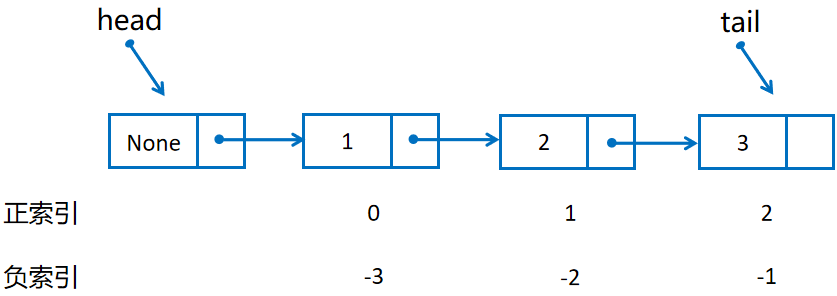
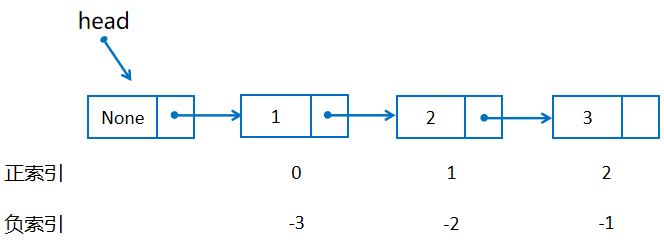
docs: modify linkedlist docs

diff --git a/data_structure/docs/linked_lists.md b/data_structure/docs/linked_lists.md
@@ -8,11 +8,280 @@
 
 单链表，也称单向链表 (Single Linked List)，由许多节点连接而成。单个节点由两部分 (value 和 next) 组成，value 用于存储数据，next 用于存储下一个节点的引用 (也可以理解为一个指针，指向下一个节点)。
 
-通常我们会在链表的开头添加一个哨兵节点 (sentinel) 作为伪头 (pseudo-head)，可以简化插入、删除等操作。哨兵节点不计入链表长度，也无法用索引访问。
+通常我们会在链表的开头添加一个哨兵节点 (sentinel) 作为伪头 (pseudo-head)，可以简化插入等操作。哨兵节点不计入链表长度，也无法用索引访问。
 
-我们还有两个字段 head 和 tail，用于存储头节点和尾节点的引用 (也可以理解成头指针和尾指针，指向头节点和尾节点)。
+我们还有一个字段 head，用于存储伪头的引用 (也可以理解成头指针，指向伪头节点)。
 
 
+
+#### 链表支持的操作
+
+##### 1. 初始化
+
+我们可以使用以下的代码创建一个空链表：
+
+```python
+linked_list = LinkedList()
+```
+
+也可以传入一个可迭代对象，将其转换为链表：
+
+```python
+linked_list1 = LinkedList([1, 2, 3])
+linked_list2 = LinkedList((1, 2, 3))
+linked_list3 = LinkedList(range())
+```
+
+
+
+##### 2. 显示链表信息
+
+当我们打印链表对象时，
+
+```python
+print(linked_list)
+print(linked_list1)
+print(linked_list2)
+print(linked_list3)
+```
+
+会显示出对应的信息：
+
+```python
+【head】
+【head】->【1】->【2】->【3】
+【head】->【1】->【2】->【3】
+【head】->【0】->【1】->【2】->【3】->【4】
+```
+
+
+
+##### 3. 访问链表元素
+
+我们可以使用索引的方式访问指定下标的元素，
+
+```python
+print(linked_list1[0])
+```
+
+会得到该链表的第一个元素：
+
+```python
+1
+```
+
+
+
+##### 4. 修改对应元素
+
+我们可以使用索引指定一个元素后，修改其值：
+
+```python
+linked_list1[0] = 'hello'
+print(linked_list1)
+```
+
+输出结果如下所示：
+
+```python
+【head】->【hello】->【2】->【3】
+```
+
+
+
+##### 5. 获取链表长度
+
+我们可以使用 Pyhton 内置方法 `len` 获得链表的长度：
+
+```python
+length = len(linked_List1)
+print(length)
+```
+
+输出结果如下所示：
+
+```python
+3
+```
+
+
+
+##### 6. 迭代
+
+我们可以使用 `for` 语句遍历链表，如下所示：
+
+```python
+for node in linked_list1:
+    print(node.value)
+```
+
+输出结果如下所示：
+
+```python
+hello
+2
+3
+```
+
+
+
+#### 链表方法
+
+##### 1. append 
+
+**作用**
+
+在链表尾部插入一个节点。
+
+**语法**
+
+```python
+linked_list.append(value)
+```
+
+**参数**
+
+- value -- 要插入节点的值
+
+**返回值**
+
+无
+
+**实例**
+
+```python
+linked_list = LinkedList(range(3))
+print(linked_list)
+linked_list.append(3)
+print(linked_list)
+```
+
+**结果**
+
+```python
+【head】->【0】->【1】->【2】
+【head】->【0】->【1】->【2】->【3】
+```
+
+
+
+##### 2. insert
+
+**作用**
+
+在链表指定位置 pos 处的节点前插入一个节点。
+
+**语法**
+
+```python
+linked_list.insert(pos, value)
+```
+
+**参数**
+
+- pos -- 链表中节点的位置
+- value -- 要插入节点的值
+
+**返回值**
+
+无
+
+**实例**
+
+```python
+linked_list = LinkedList(range(3))
+print(linked_list)
+linked_list.insert(1, 'hello')
+print(linked_list)
+```
+
+**结果**
+
+```python
+【head】->【0】->【1】->【2】
+【head】->【0】->【hello】->【1】->【2】
+```
+
+
+
+##### 3. remove
+
+**作用**
+
+移除与值匹配的第一个节点。
+
+**语法**
+
+```python
+linked_list.remove(value)
+```
+
+**参数**
+
+- value -- 要移除节点的值
+
+**返回值**
+
+无
+
+**实例**
+
+```python
+linked_list = LinkedList(range(3))
+print(linked_list)
+linked_list.remove(2)
+print(linked_list)
+```
+
+**结果**
+
+```python
+【head】->【0】->【1】->【2】
+【head】->【0】->【1】
+```
+
+
+
+##### 4. pop
+
+**作用**
+
+移除指定位置的节点并返回，默认移除最后一个节点。
+
+**语法**
+
+```python
+linked_list.pop(pos=-1)
+```
+
+**参数**
+
+- pos -- 链表中节点的位置
+
+**返回值**
+
+返回移除的节点。
+
+**实例**
+
+```python
+linked_list = LinkedList(range(5))
+print(linked_list)
+print(linked_list.pop().value)
+print(linked_list)
+print(linked_list.pop(1).value)
+print(linked_list)
+```
+
+**结果**
+
+```python
+【head】->【0】->【1】->【2】->【3】->【4】
+4
+【head】->【0】->【1】->【2】->【3】
+1
+【head】->【0】->【2】->【3】
+```
 
 
 
@@ -20,56 +289,13 @@
 
  双链表，也称双向链表 (Double Linked List)，由许多节点组成，每个节点包括存储数据部分，还包括前缀指针 (pre) 指向前一个节点，后缀指针 (next) 指向后一个节点。
 
+
+
 ![](.\img\3.png)
 
-### 1. 链表的创建
+![](.\img\4.png)
 
-创建空链表
+通常我们会在链表的开头添加两个哨兵节点 (sentinel) 作为伪头 (pseudo-head) 和伪尾 (pseudo-tail)，可以简化插入、删除等操作。哨兵节点不计入链表长度，也无法用索引访问。
 
-```python
-linked_list = LinkedList()
-```
-
-初始化一个链表
-
-```python
-linked_list = LinkedList([1, 2, 3])
-# 或者
-linked_list = LinkedList('123')
-```
-
-> 注意传入的参数需要是一个序列类型
-
-
-
-### 2. 访问链表元素
-
-可以采用索引的方式访问链表元素
-
-```python
-elem = linked_list[1]
-```
-
-
-
-### 3. 修改链表元素
-
-```python
-linked_list[1] = 'hello'
-```
-
-
-
-### 4. 获取链表长度
-
-```python
-length = len(linked_list)
-```
-
-
-
-### 5. 链表方法
-
-- append
-- insert
+我们还有两个字段 head 和 tail，用于存储伪头和伪尾的引用 (也可以理解成头指针和尾指针，指向伪头节点和伪尾节点)。
 
